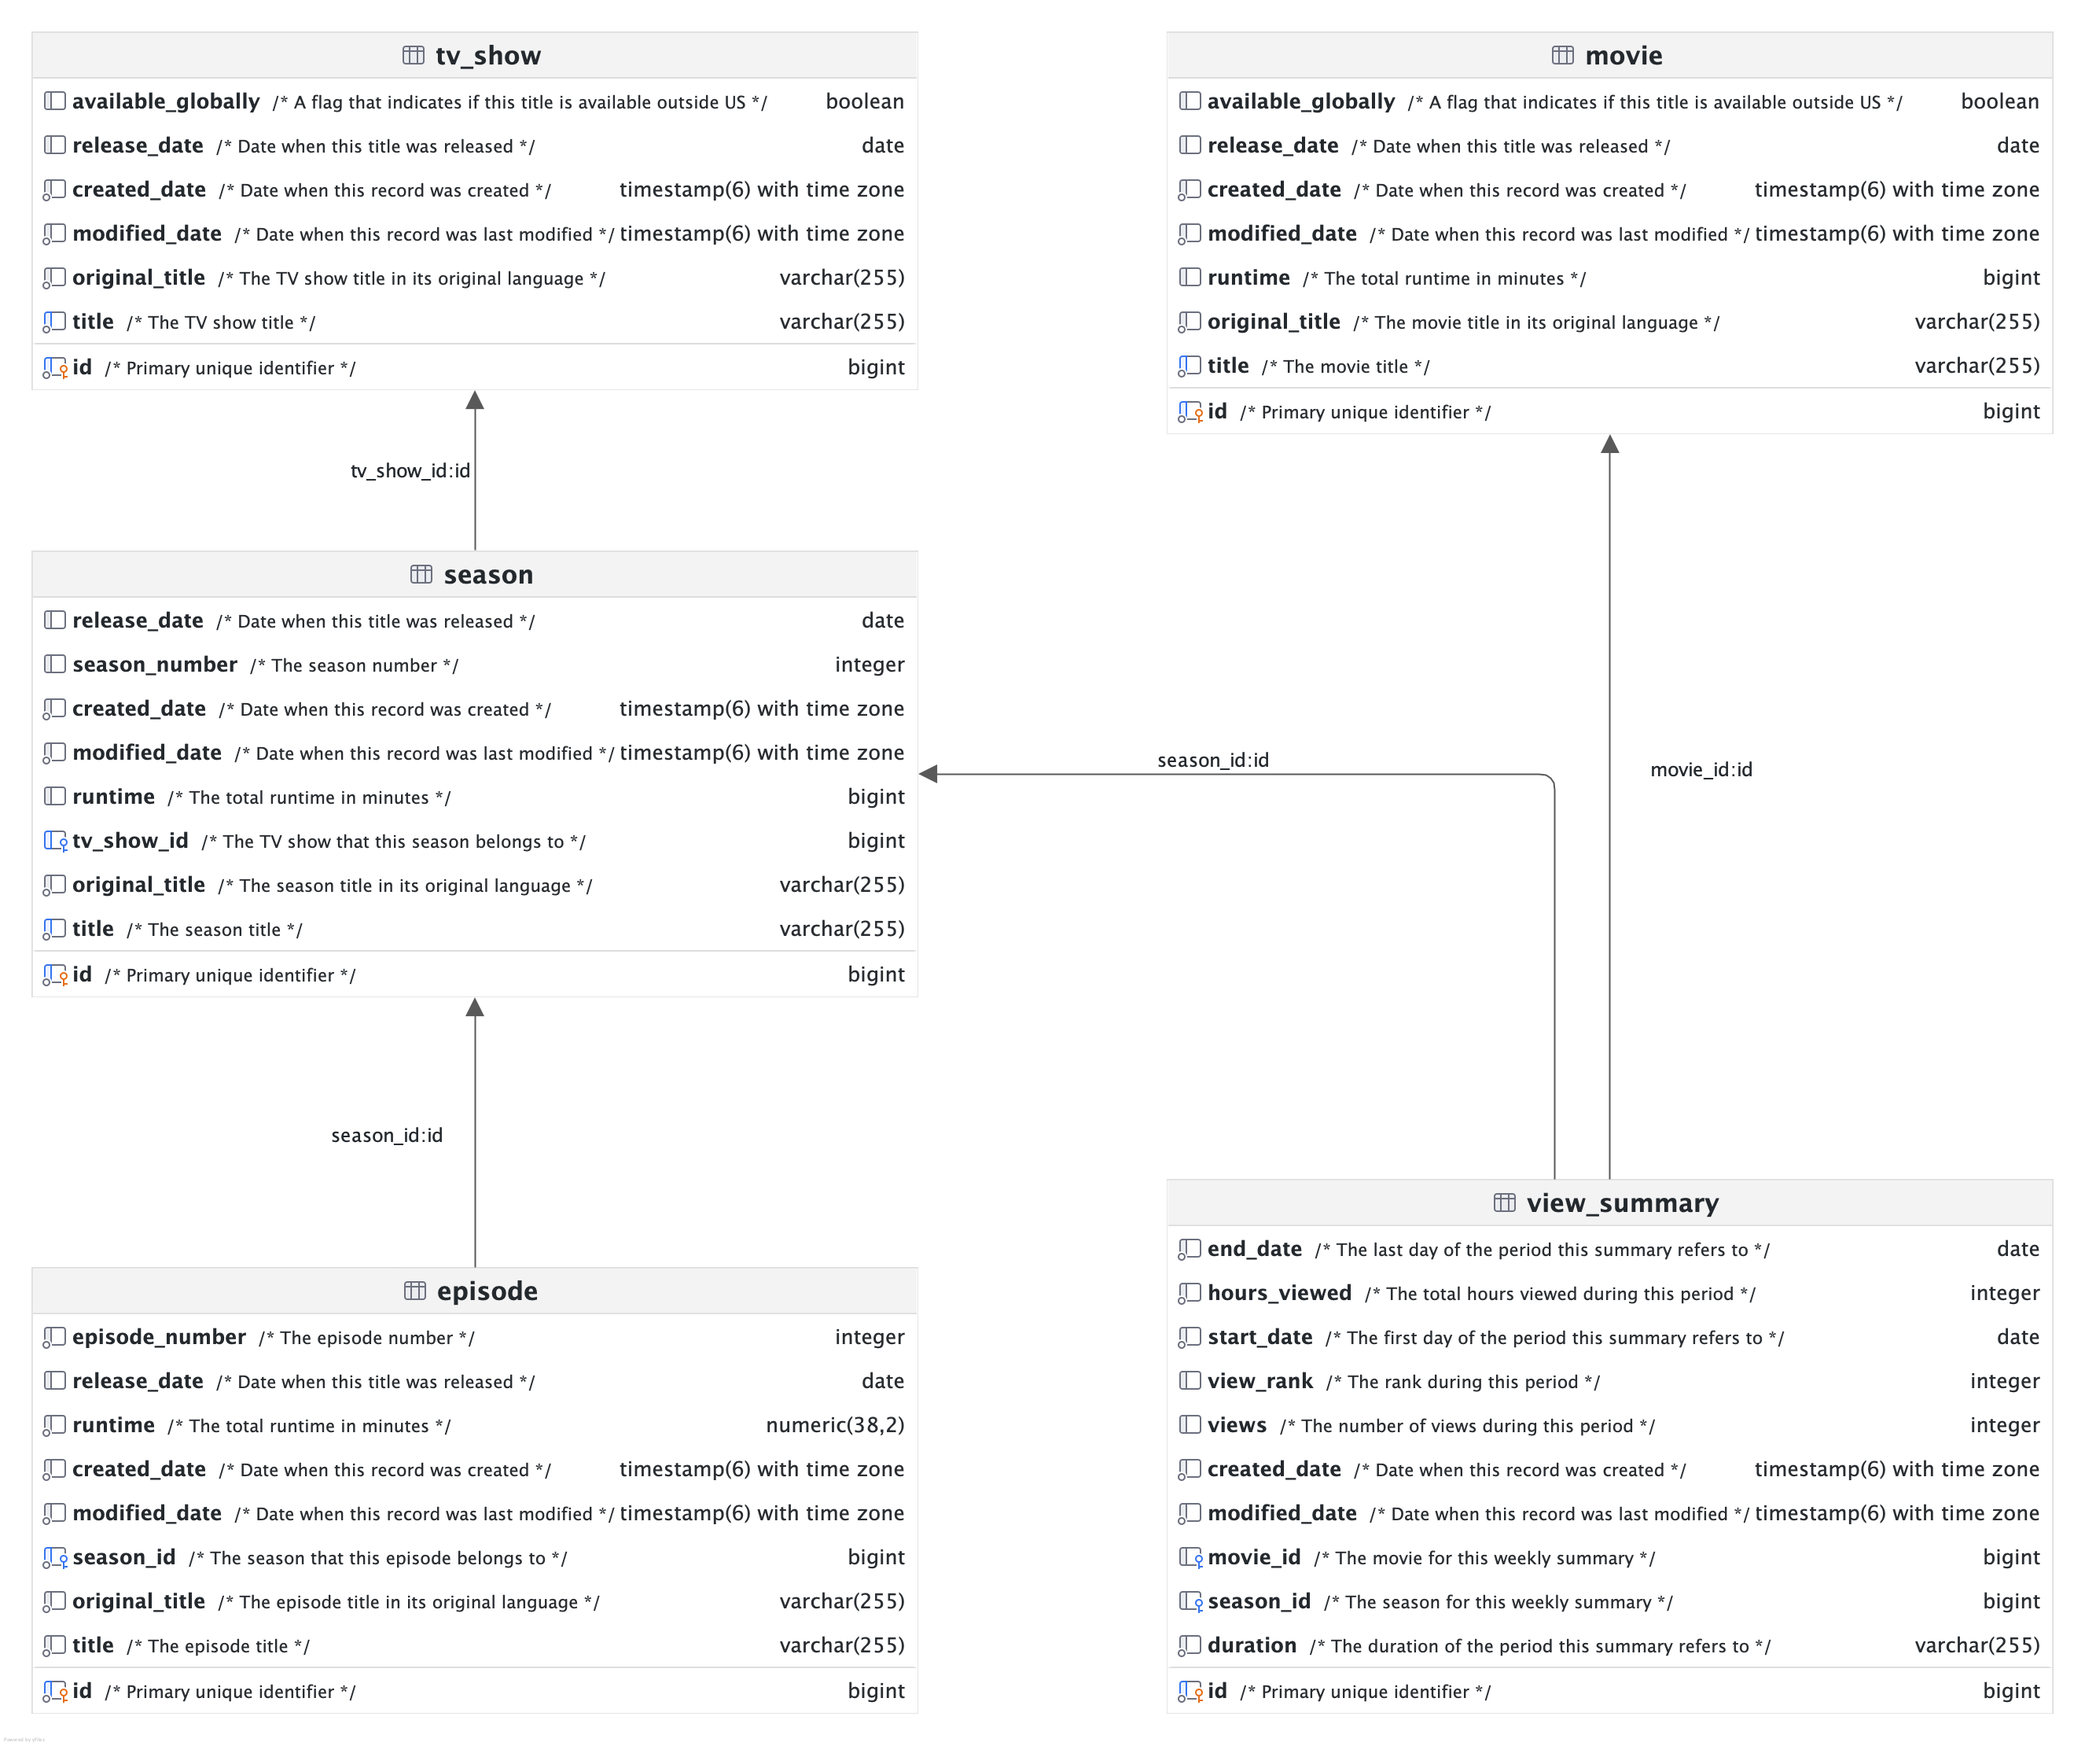
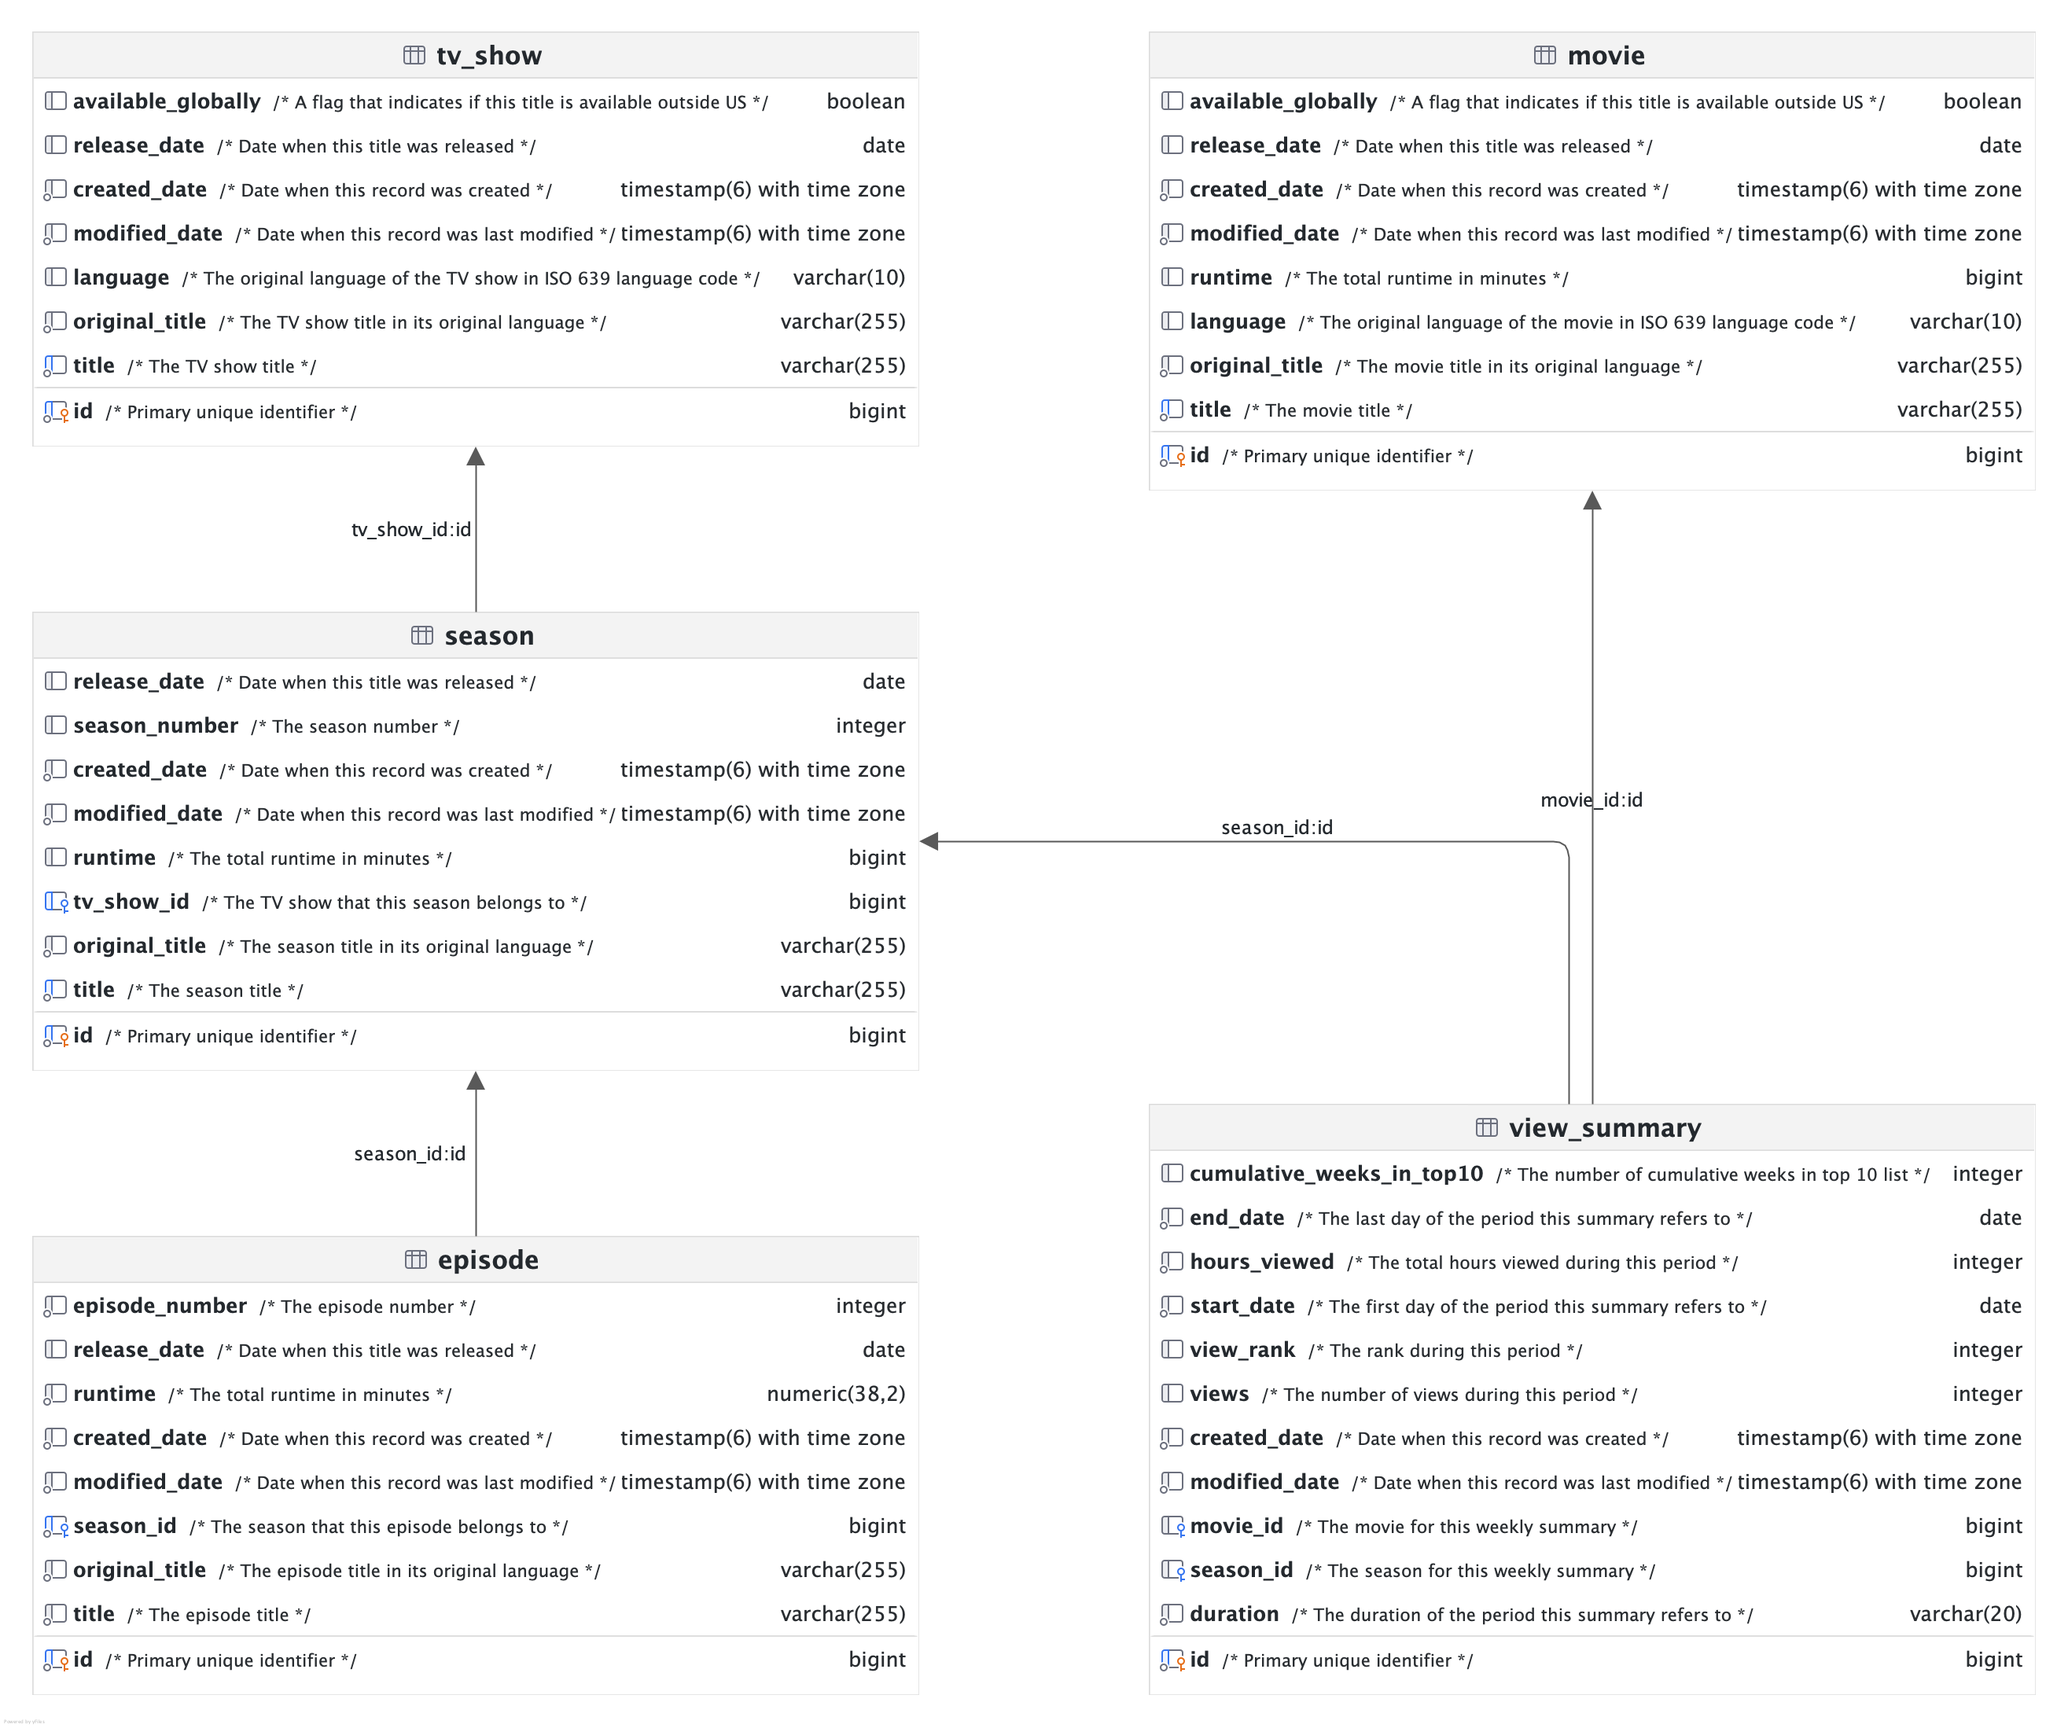
feat: adding language column

diff --git a/src/main/kotlin/com/github/lerocha/netflixdb/dto/ReportSheetRow.kt b/src/main/kotlin/com/github/lerocha/netflixdb/dto/ReportSheetRow.kt
@@ -8,11 +8,13 @@ import com.github.lerocha.netflixdb.entity.ViewSummary
 import java.time.Instant
 import java.time.LocalDate
 import java.time.ZoneOffset
+import java.util.Locale
 
 data class ReportSheetRow(
     var title: String? = null,
     var originalTitle: String? = null,
     var category: StreamingCategory? = null,
+    var language: Locale? = null,
     var runtime: Long? = null,
     var releaseDate: LocalDate? = null,
     var availableGlobally: Boolean? = false,
@@ -34,6 +36,7 @@ fun ReportSheetRow.toMovie() =
         this.runtime = this@toMovie.runtime
         this.releaseDate = this@toMovie.releaseDate
         this.availableGlobally = this@toMovie.availableGlobally
+        this.language = this@toMovie.language
         this.viewSummaries.add(this@toMovie.toViewSummary())
     }.apply { this.viewSummaries.forEach { it.movie = this } }
 
@@ -50,6 +53,7 @@ fun ReportSheetRow.toTvShow() =
                 this@toTvShow.originalTitle?.replace(":$last", "")?.trim()
             }
         this.availableGlobally = this@toTvShow.availableGlobally
+        this.language = this@toTvShow.language
     }
 
 fun ReportSheetRow.toSeason() =

diff --git a/src/main/kotlin/com/github/lerocha/netflixdb/batch/CreateNetflixDatabaseJobConfig.kt b/src/main/kotlin/com/github/lerocha/netflixdb/batch/CreateNetflixDatabaseJobConfig.kt
@@ -44,6 +44,7 @@ import org.springframework.data.jpa.repository.JpaRepository
 import org.springframework.transaction.PlatformTransactionManager
 import java.io.File
 import java.time.LocalDate
+import java.util.Locale
 import kotlin.time.Duration
 
 @Configuration
@@ -245,6 +246,7 @@ class CreateNetflixDatabaseJobConfig(
                     title = rowSet.getString("show_title")?.trim()
                     originalTitle = rowSet.getString("show_title")?.trim()
                     category = rowSet.getString("category")?.toCategory()
+                    language = if (rowSet.getString("category")?.contains("(English)") == true) Locale.ENGLISH else null
                     availableGlobally = null
                     releaseDate = null
                     hoursViewed = rowSet.getInt("weekly_hours_viewed")

diff --git a/src/main/kotlin/com/github/lerocha/netflixdb/entity/Movie.kt b/src/main/kotlin/com/github/lerocha/netflixdb/entity/Movie.kt
@@ -9,6 +9,7 @@ import jakarta.persistence.OneToMany
 import jakarta.persistence.Table
 import org.hibernate.annotations.Comment
 import java.time.LocalDate
+import java.util.Locale
 
 @Entity
 @Table(
@@ -36,6 +37,10 @@ class Movie : AbstractEntity() {
     @Column(nullable = true)
     @Comment("A flag that indicates if this title is available outside US")
     var availableGlobally: Boolean? = false
+
+    @Column(length = 10, nullable = true)
+    @Comment("The original language of the movie in ISO 639 language code")
+    var language: Locale? = null
 
     @OneToMany(mappedBy = "movie", fetch = FetchType.LAZY, cascade = [(CascadeType.ALL)])
     var viewSummaries: MutableList<ViewSummary> = mutableListOf()

diff --git a/src/main/kotlin/com/github/lerocha/netflixdb/entity/TvShow.kt b/src/main/kotlin/com/github/lerocha/netflixdb/entity/TvShow.kt
@@ -8,6 +8,7 @@ import jakarta.persistence.OneToMany
 import jakarta.persistence.Table
 import org.hibernate.annotations.Comment
 import java.time.LocalDate
+import java.util.Locale
 
 @Entity
 @Table(
@@ -31,6 +32,10 @@ class TvShow : AbstractEntity() {
     @Column(nullable = true)
     @Comment("A flag that indicates if this title is available outside US")
     var availableGlobally: Boolean? = false
+
+    @Column(length = 10, nullable = true)
+    @Comment("The original language of the TV show in ISO 639 language code")
+    var language: Locale? = null
 
     @OneToMany(mappedBy = "tvShow", fetch = FetchType.LAZY)
     var seasons: MutableList<Season> = mutableListOf()

diff --git a/src/main/kotlin/com/github/lerocha/netflixdb/entity/ViewSummary.kt b/src/main/kotlin/com/github/lerocha/netflixdb/entity/ViewSummary.kt
@@ -27,7 +27,7 @@ class ViewSummary : AbstractEntity() {
     @Comment("The last day of the period this summary refers to")
     var endDate: LocalDate? = null
 
-    @Column(nullable = false)
+    @Column(length = 20, nullable = false)
     @Enumerated(EnumType.STRING)
     @Comment("The duration of the period this summary refers to")
     var duration: SummaryDuration? = null
